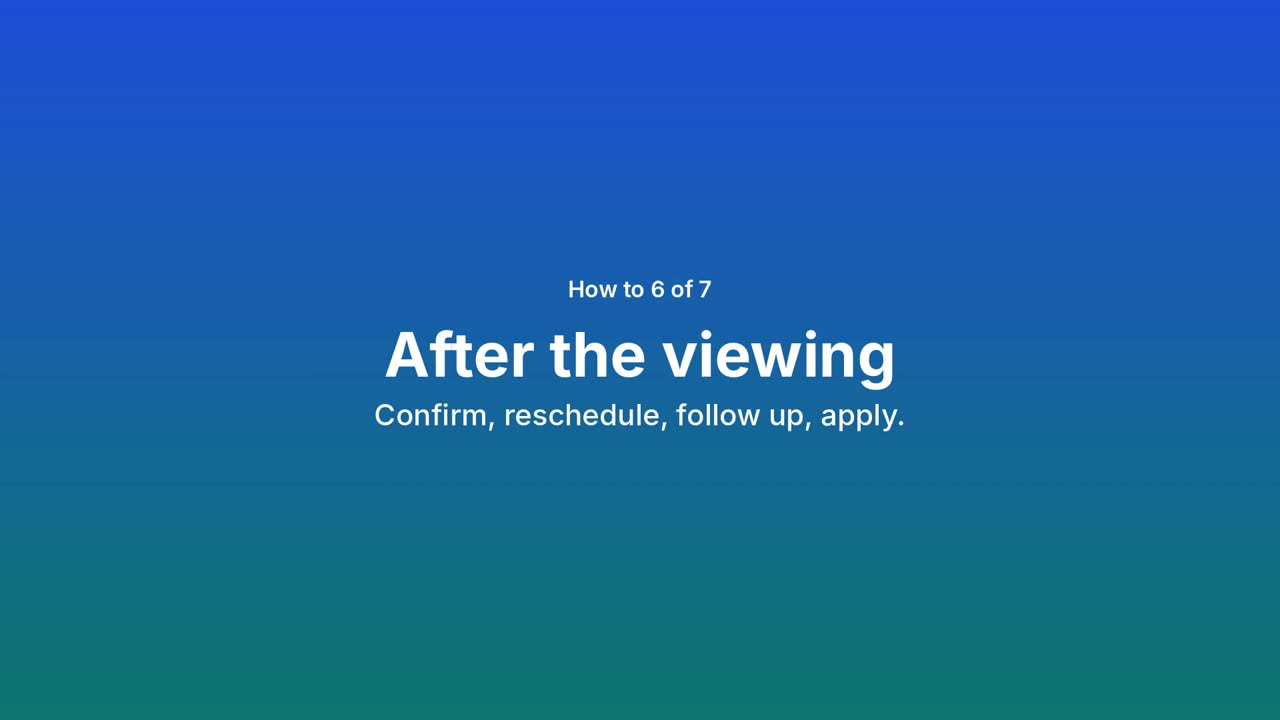
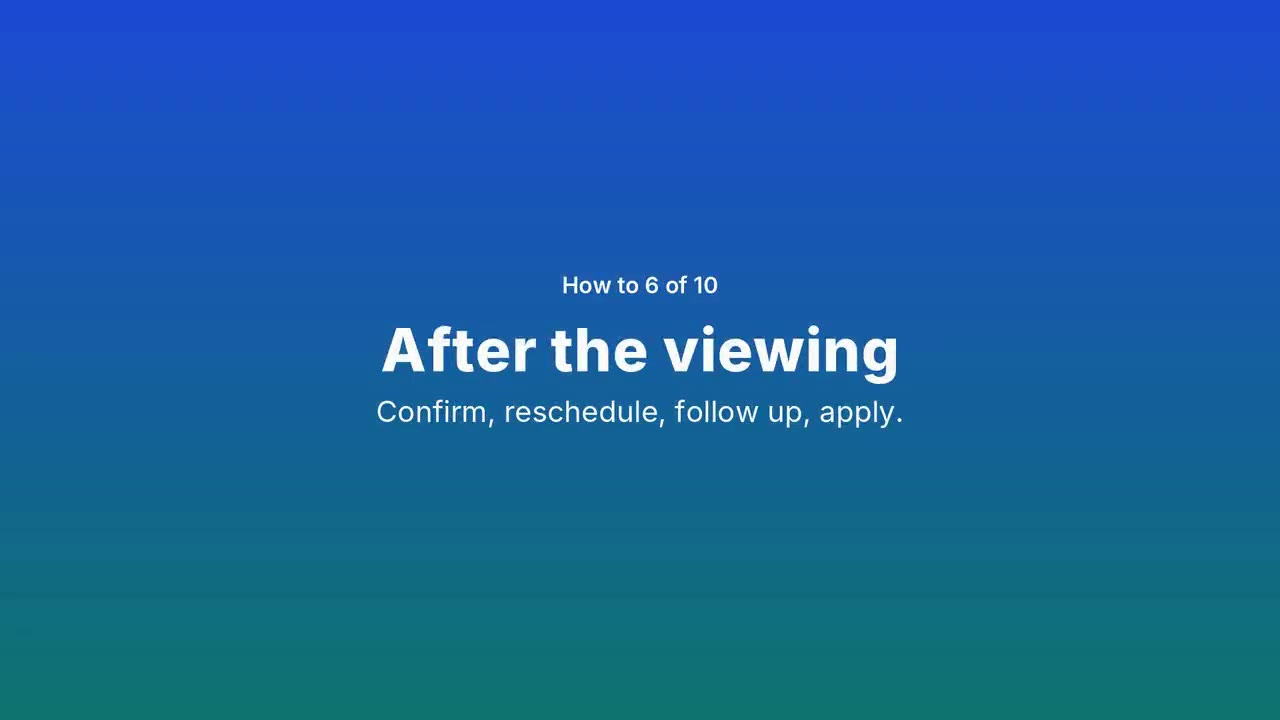
S816c: help videos always match the page and the picture
Noam 2026-11-17: '"help for this page" brings up sometimes correct and
sometimes incorrect videos please ensure they are correctly correlated.'

Cause: the poster image shown before a video plays was never redone when
videos were re-shot. Five still said "of 7", one "of 9", and posters 3, 8
and 10 showed frames from old cuts (10 showed the Owner statement). The
mp4 files also kept the same name across re-shoots, so a browser could
play an old copy.

- All ten posters regenerated from each current video's title card (read
  side by side before and after).
- lib/how-to-videos: HOW_TO_FILE_VERSION per video (md5 of mp4 + jpg) and
  howToVideoSrc / howToPosterSrc; the help window, /how-to and /fix pages
  use them. test-page-help fails if a file changes without its stamp.
- lib/page-help: Today opens Answer an inquiry, then After the viewing;
  Leasing overview and Reports no longer open "After you lease"; a
  renter's page adds After the viewing (it has the application now).

Claude-Session: https://claude.ai/code/session_01MTgxGrMz8oSgzAZqtkqGS3

Changed region(s): [[0.2812, 0.4583, 0.7188, 0.6111], [0.4375, 0.3667, 0.5625, 0.4278]]

diff --git a/scripts/test-page-help.ts b/scripts/test-page-help.ts
@@ -2,7 +2,8 @@
 import assert from "node:assert/strict";
 import { existsSync, readFileSync } from "node:fs";
 import { PAGE_HELP_ROUTES, helpVideosFor } from "../lib/page-help";
-import { HOW_TO_VIDEOS } from "../lib/how-to-videos";
+import { HOW_TO_VIDEOS, HOW_TO_FILE_VERSION, howToVideoSrc, howToPosterSrc } from "../lib/how-to-videos";
+import { createHash } from "node:crypto";
 
 let n = 0;
 function ok(name: string, fn: () => void) { fn(); n++; console.log("ok", name); }
@@ -30,7 +31,13 @@ ok("pages get the right video first", () => {
   assert.deepEqual(nums("/dashboard/properties/abc-123"), [1, 4]);
   assert.deepEqual(nums("/dashboard/properties/abc-123?tab=posting"), [1, 4]);
   assert.deepEqual(nums("/dashboard/availability"), [2]);
-  assert.deepEqual(nums("/dashboard/leads/xyz"), [3]);
+  assert.deepEqual(nums("/dashboard/leads/xyz"), [3, 6]);
+  assert.deepEqual(nums("/dashboard/leads"), [3]);
+  // S816: Today, Leasing overview and Reports are pre-lease, not "After you lease".
+  assert.deepEqual(nums("/dashboard"), [3, 6]);
+  assert.deepEqual(nums("/dashboard/"), [3, 6]);
+  assert.deepEqual(nums("/dashboard/leasing"), [3, 6]);
+  assert.deepEqual(nums("/dashboard/reports"), [6, 3]);
   assert.deepEqual(nums("/dashboard/sites"), [4]);
   assert.deepEqual(nums("/dashboard/showing-agents"), [5, 8]);
   assert.deepEqual(nums("/dashboard/showings"), [6]);
@@ -44,7 +51,7 @@ ok("no prefix swallows a neighbour (showings vs showing-agents, rent vs rental)"
   assert.deepEqual(nums("/dashboard/rental"), []);
 });
 ok("pages with no video get the full list", () => {
-  for (const p of ["/dashboard", "/dashboard/settings", "/dashboard/billing", "/dashboard/crew", "", null]) {
+  for (const p of ["/dashboard/settings", "/dashboard/billing", "/dashboard/crew", "", null]) {
     assert.deepEqual(nums(p as string), [], String(p));
   }
 });
@@ -64,5 +71,21 @@ ok("home screen: manifest names real icons and starts in the dashboard", () => {
     assert.equal(b.readUInt32BE(20), px, f);
   }
   assert.match(readFileSync("app/layout.tsx", "utf8"), /appleWebApp/);
+});
+// S816: each video's stamp matches its files, so a re-shot video or a new
+// poster can't be served from an old copy, and every page uses the stamp.
+ok("every video and poster carries its current stamp", () => {
+  for (const v of HOW_TO_VIDEOS) {
+    const h = createHash("md5")
+      .update(readFileSync(`public/videos/howto-${v.n}.mp4`))
+      .update(readFileSync(`public/videos/howto-${v.n}.jpg`))
+      .digest("hex")
+      .slice(0, 8);
+    assert.equal(HOW_TO_FILE_VERSION[v.n], h, `howto-${v.n}: re-shot? set HOW_TO_FILE_VERSION[${v.n}] = "${h}"`);
+    assert.ok(howToVideoSrc(v.n).endsWith(`?v=${h}`) && howToPosterSrc(v.n).endsWith(`?v=${h}`));
+  }
+  for (const f of ["components/page-help.tsx", "app/how-to/page.tsx", "app/fix/[slug]/page.tsx"]) {
+    assert.ok(!/\/videos\/howto-\$\{/.test(readFileSync(f, "utf8")), `${f} uses howToVideoSrc/howToPosterSrc`);
+  }
 });
 console.log(`\n${n} passed`);

diff --git a/lib/page-help.ts b/lib/page-help.ts
@@ -15,6 +15,7 @@ export const PAGE_HELP_ROUTES: [string, number[]][] = [
   ["/dashboard/properties", [1]],
   ["/dashboard/add-details", [1]],
   ["/dashboard/availability", [2]],
+  ["/dashboard/leads/", [3, 6]],
   ["/dashboard/leads", [3]],
   ["/dashboard/replies", [3]],
   ["/dashboard/messages", [3]],
@@ -32,19 +33,25 @@ export const PAGE_HELP_ROUTES: [string, number[]][] = [
   ["/dashboard/tenancies/", [10, 9]],
   ["/dashboard/tenancies", [10]],
   ["/dashboard/tenants", [10, 9]],
-  ["/dashboard/leasing", [10]],
+  // S816: Leasing overview and Reports are about renters and viewings, not
+  // after the lease (Noam: the "?" sometimes opened the wrong video).
+  ["/dashboard/leasing", [3, 6]],
   ["/dashboard/rent", [10]],
   ["/dashboard/money", [10]],
   ["/dashboard/maintenance", [10]],
   ["/dashboard/expenses", [10]],
-  ["/dashboard/reports", [10]],
+  ["/dashboard/reports", [6, 3]],
 ];
+
+// The Today page itself (exact /dashboard only): replies and follow-ups.
+const HOME_VIDEOS = [3, 6];
 
 export type HelpVideo = (typeof HOW_TO_VIDEOS)[number];
 
 /** The videos for a page, most useful first; [] means show the full list. */
 export function helpVideosFor(pathname: string | null | undefined): HelpVideo[] {
-  const p = (pathname ?? "").split(/[?#]/)[0];
+  const p = (pathname ?? "").split(/[?#]/)[0].replace(/\/+$/, "") || "/";
+  if (p === "/dashboard") return HOME_VIDEOS.map((n) => HOW_TO_VIDEOS.find((v) => v.n === n)!).filter(Boolean);
   for (const [prefix, nums] of PAGE_HELP_ROUTES) {
     const hit = prefix.endsWith("/") ? p.startsWith(prefix) && p.length > prefix.length : p === prefix || p.startsWith(prefix + "/");
     if (hit) return nums.map((n) => HOW_TO_VIDEOS.find((v) => v.n === n)!).filter(Boolean);

diff --git a/lib/how-to-videos.ts b/lib/how-to-videos.ts
@@ -17,3 +17,27 @@ export const HOW_TO_VIDEOS: { n: number; title: string; line: string; seconds: n
 // S729: the count in words, so headings never go stale when a video is added.
 const COUNT_WORDS = ["Zero", "One", "Two", "Three", "Four", "Five", "Six", "Seven", "Eight", "Nine", "Ten", "Eleven", "Twelve"];
 export const HOW_TO_COUNT_WORD = COUNT_WORDS[HOW_TO_VIDEOS.length] ?? String(HOW_TO_VIDEOS.length);
+
+// S816: a version stamp per video (first 8 of the md5 of the mp4 then the jpg),
+// so a re-shot video or poster can never come from a browser's old copy, and the
+// help window can't show one video's poster over another. scripts/test-page-help
+// fails if a file changes without its stamp: re-shoot, then update the stamp.
+export const HOW_TO_FILE_VERSION: Record<number, string> = {
+  1: "72bfee5d",
+  2: "c75f7f46",
+  3: "d1473f77",
+  4: "74744e70",
+  5: "5e766fae",
+  6: "27db4a2d",
+  7: "585f4ef1",
+  8: "46b772aa",
+  9: "15ce89cf",
+  10: "345f174c",
+};
+
+export function howToVideoSrc(n: number): string {
+  return `/videos/howto-${n}.mp4?v=${HOW_TO_FILE_VERSION[n] ?? "0"}`;
+}
+export function howToPosterSrc(n: number): string {
+  return `/videos/howto-${n}.jpg?v=${HOW_TO_FILE_VERSION[n] ?? "0"}`;
+}

diff --git a/app/fix/[slug]/page.tsx b/app/fix/[slug]/page.tsx
@@ -2,7 +2,7 @@ import Link from "next/link";
 import { notFound } from "next/navigation";
 import { MarketingCta, MarketingFooter, MarketingHeader } from "@/components/marketing-chrome";
 import { FRICTION_PAGES, FIX_PATH, frictionPage } from "@/lib/friction-pages";
-import { HOW_TO_PATH, HOW_TO_VIDEOS } from "@/lib/how-to-videos";
+import { HOW_TO_PATH, HOW_TO_VIDEOS, howToVideoSrc, howToPosterSrc } from "@/lib/how-to-videos";
 
 // S777: one page per landlord friction (lib/friction-pages.ts). The fix works
 // with any tool; Vacantless comes second. Forum replies and YouTube link here.
@@ -102,8 +102,8 @@ export default function FrictionPageView({ params }: { params: { slug: string } 
                 <h2 className="text-[1.35rem] font-extrabold tracking-tight">See it</h2>
                 <video
                   className="mt-4 aspect-video w-full rounded-lg border border-[#d9e1dc] bg-[#edf5f0]"
-                  src={`/videos/howto-${video.n}.mp4`}
-                  poster={`/videos/howto-${video.n}.jpg`}
+                  src={howToVideoSrc(video.n)}
+                  poster={howToPosterSrc(video.n)}
                   controls
                   preload="none"
                   playsInline

diff --git a/app/how-to/page.tsx b/app/how-to/page.tsx
@@ -1,7 +1,7 @@
 import Link from "next/link";
 import { MarketingHeader } from "@/components/marketing-chrome";
 import { VacantlessMark } from "../../components/vacantless-mark";
-import { HOW_TO_COUNT_WORD, HOW_TO_VIDEOS } from "@/lib/how-to-videos";
+import { HOW_TO_COUNT_WORD, HOW_TO_VIDEOS, howToVideoSrc, howToPosterSrc } from "@/lib/how-to-videos";
 
 // S726: the how-to videos (recorded on the S712 test account, captions
 // only). Public, so the welcome email and the getting-started page can link
@@ -31,8 +31,8 @@ export default function HowToPage() {
             <li key={v.n} id={`video-${v.n}`} className="scroll-mt-6">
               <video
                 className="aspect-video w-full rounded-lg border border-[#d9e1dc] bg-[#edf5f0]"
-                src={`/videos/howto-${v.n}.mp4`}
-                poster={`/videos/howto-${v.n}.jpg`}
+                src={howToVideoSrc(v.n)}
+                poster={howToPosterSrc(v.n)}
                 controls
                 preload="none"
                 playsInline

diff --git a/components/page-help.tsx b/components/page-help.tsx
@@ -5,7 +5,7 @@
 // videos, and an email link.
 import { useEffect, useRef, useState } from "react";
 import { usePathname } from "next/navigation";
-import { HOW_TO_PATH, HOW_TO_VIDEOS } from "@/lib/how-to-videos";
+import { HOW_TO_PATH, HOW_TO_VIDEOS, howToVideoSrc, howToPosterSrc } from "@/lib/how-to-videos";
 import { HELP_EMAIL, helpVideosFor } from "@/lib/page-help";
 
 export function PageHelp() {
@@ -74,8 +74,8 @@ export function PageHelp() {
                 <video
                   key={current.n}
                   className="aspect-video w-full rounded-lg border border-slate-200 bg-slate-100"
-                  src={`/videos/howto-${current.n}.mp4`}
-                  poster={`/videos/howto-${current.n}.jpg`}
+                  src={howToVideoSrc(current.n)}
+                  poster={howToPosterSrc(current.n)}
                   controls
                   preload="none"
                   playsInline
